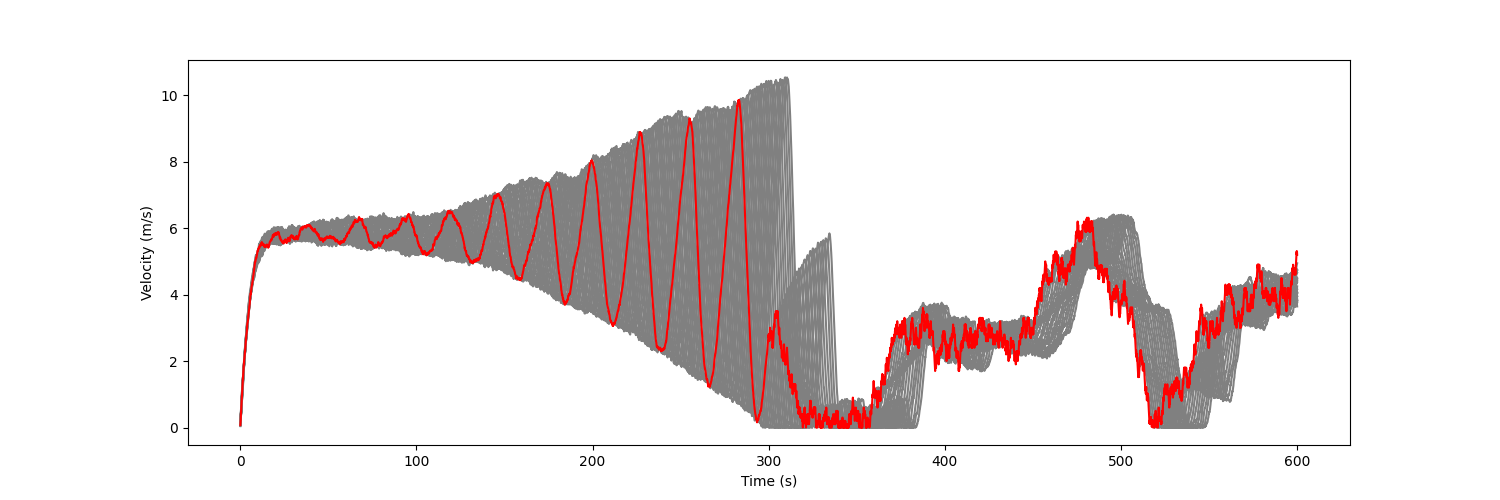
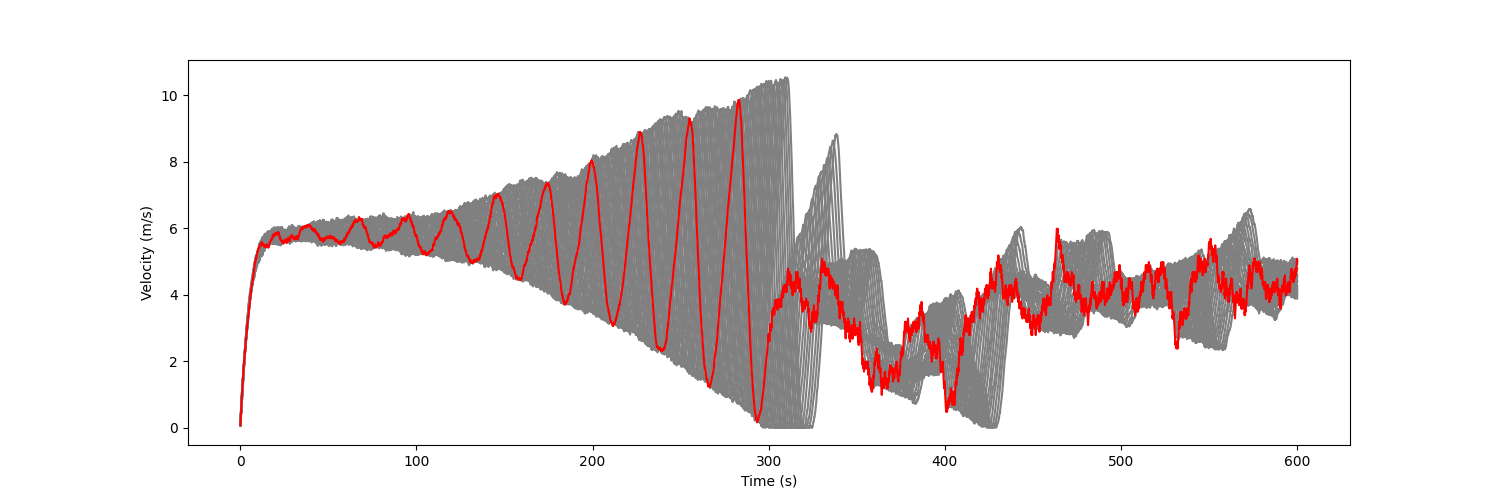
reward change

Changed region(s): [[0.4907, 0.27, 0.8893, 0.87]]

diff --git a/Ring_Road/vehicle/vehicle.py b/Ring_Road/vehicle/vehicle.py
@@ -89,18 +89,24 @@ class Agent(Car):
         delta_x1 = initial_x[0] + (1 / (2 * curvatures[0])) * (delta_v ** 2)
         delta_x2 = initial_x[1] + (1 / (2 * curvatures[1])) * (delta_v ** 2)
         delta_x3 = initial_x[2] + (1 / (2 * curvatures[2])) * (delta_v ** 2)
-        v = min(max(v_lead, 0), self.desired_vel)
+        # v = min(max(v_lead, 0), self.desired_vel)
         s = self.gap_front()
+        v = v_lead
+
 
         v_cmd = 0
         if s <= delta_x1:
             v_cmd = 0
+            print("delta1: {}".format(v_cmd))
         elif s <= delta_x2:
             v_cmd = v * ((s - delta_x1) / (delta_x2 - delta_x1))
+            print("delta2: {}".format(v_cmd))
         elif s <= delta_x3:
-            v_cmd = v + ((self.desired_vel - v) * ((s - delta_x2) / (delta_x3 - delta_x2)))
+            v_cmd = v + (abs(self.desired_vel - v) * ((s - delta_x2) / (delta_x3 - delta_x2)))
+            print("delta3: {}".format(v_cmd))
         elif s > delta_x3:
             v_cmd = self.desired_vel
+        print("Gap Front: {}, Delta_x1: {}, Delta_x2: {}, Delta_x3: {}, v_cmd: {}, v: {}".format(s, delta_x1, delta_x2, delta_x3, v_cmd, v))
 
         self.acc = (v_cmd - self.v) / DELTA_T
         return self.acc
@@ -170,6 +176,7 @@ class Agent(Car):
         if accel_action == None:
             return
         self.v = max(0, min(self.v + (accel_action * DELTA_T), AGENT_MAX_VELOCITY))
+        # print("Updated Velocity: {}".format(self.v))
 
     def step(self, eval_mode, action_steps, agent_type, state_extractor):
         if eval_mode:

diff --git a/Ring_Road/envs/ringroad.py b/Ring_Road/envs/ringroad.py
@@ -133,14 +133,13 @@ class RingRoad(gym.Env):
         reward = self.state_extractor.get_average_vel()
 
         # punish accelerations (should lead to reduced stop-and-go waves)
-        eta = 0.1  # 0.25
+        eta = 2  # 0.25
         mean_actions = eta * np.mean(np.abs(action))
         accel_threshold = 0
 
         if mean_actions > accel_threshold:
             reward += eta * (accel_threshold - mean_actions)
 
-        print(reward)
         return float(reward)
 
     def _is_done(self):
@@ -150,7 +149,7 @@ class RingRoad(gym.Env):
             else:
                 return False
         else:
-            if self.action_steps >= MAX_EPISODE_LENGTH or self.collision:
+            if self.action_steps >= MAX_EPISODE_LENGTH + WARMUP_STEPS or self.collision:
                 return True
             else:
                 return False

diff --git a/main.py b/main.py
@@ -17,7 +17,7 @@ def main():
         scripts.train_dqn.evaluate("/home/vamsi/Documents/GitHub/RingRoad-RL/Models/DQN/DQNTrainer_2022-03-03_19-28-07/DQNTrainer_ringroad-v1_f4621_00000_0_2022-03-03_19-28-08/checkpoint_000488/checkpoint-488")
 
     elif args.type == "eval_ppo":
-        scripts.train_ppo.evaluate("/home/vamsi/Documents/GitHub/RingRoad-RL/Models/PPO/PPOTrainer_2022-03-11_22-38-45/PPOTrainer_ringroad-v1_e927c_00000_0_2022-03-11_22-38-45/checkpoint_000050/checkpoint-50")
+        scripts.train_ppo.evaluate("/home/vamsi/Documents/GitHub/RingRoad-RL/Models/PPO/PPOTrainer_2022-03-12_07-38-03/PPOTrainer_ringroad-v1_40050_00000_0_2022-03-12_07-38-03/checkpoint_000250/checkpoint-250")
 
     elif args.type == "eval_idm":
         scripts.evaluate_idm.evaluate()

diff --git a/scripts/train_ppo.py b/scripts/train_ppo.py
@@ -1,5 +1,6 @@
 from ray.rllib.agents import ppo
 
+from Ring_Road.constants import MAX_EPISODE_LENGTH, WARMUP_STEPS
 from experiment import Experiment
 
 env_config = {
@@ -22,7 +23,7 @@ config["env"] = "ringroad-v1"
 config["num_gpus"] = 1
 config["num_workers"] = 8
 config["lr"] = 0.0001
-config["horizon"] = 3000
+config["horizon"] = MAX_EPISODE_LENGTH + WARMUP_STEPS
 config["model"]["fcnet_hiddens"] = [256, 256, 256]
 # config["clip_actions"] = True
 config["evaluation_interval"] = 2

diff --git a/Ring_Road/constants.py b/Ring_Road/constants.py
@@ -35,7 +35,7 @@ def clean_image(mycar_image):
                 mycar_image.set_at((x, y), (0, 0, 0, 0))
 
 
-cwd = "/home/vamsi/GitHub/RingRoad-RL"
+cwd = "/home/vamsi/Documents/GitHub/RingRoad-RL"
 
 env_car_image = pygame.image.load(cwd + "/Ring_Road/sprites/env_vehicle.png")
 env_car_image = pygame.transform.scale(env_car_image, (CAR_PIX_LENGTH, CAR_PIX_WIDTH))

diff --git a/Ring_Road/vehicle/state.py b/Ring_Road/vehicle/state.py
@@ -8,7 +8,7 @@ from Ring_Road.constants import RADIUS, CAR_LENGTH, RADIUS, AGENT_MAX_VELOCITY, 
 class StateExtractor:
     def __init__(self, env):
         self.env = env
-        self.delay = 0
+        self.delay = 1
 
     def gap_front(self, veh):
         if veh.front_vehicle.central_angle - veh.central_angle < 0:

diff --git a/test_simulator.py b/test_simulator.py
@@ -6,7 +6,8 @@ from Ring_Road import RingRoad
 env_config = {
         "enable_render": True,
         "agent_type": "man",
-        "eval_mode": False
+        "eval_mode": False,
+        "algorithm": "man"
     }
 env = RingRoad(env_config)
 obs = env.reset()
